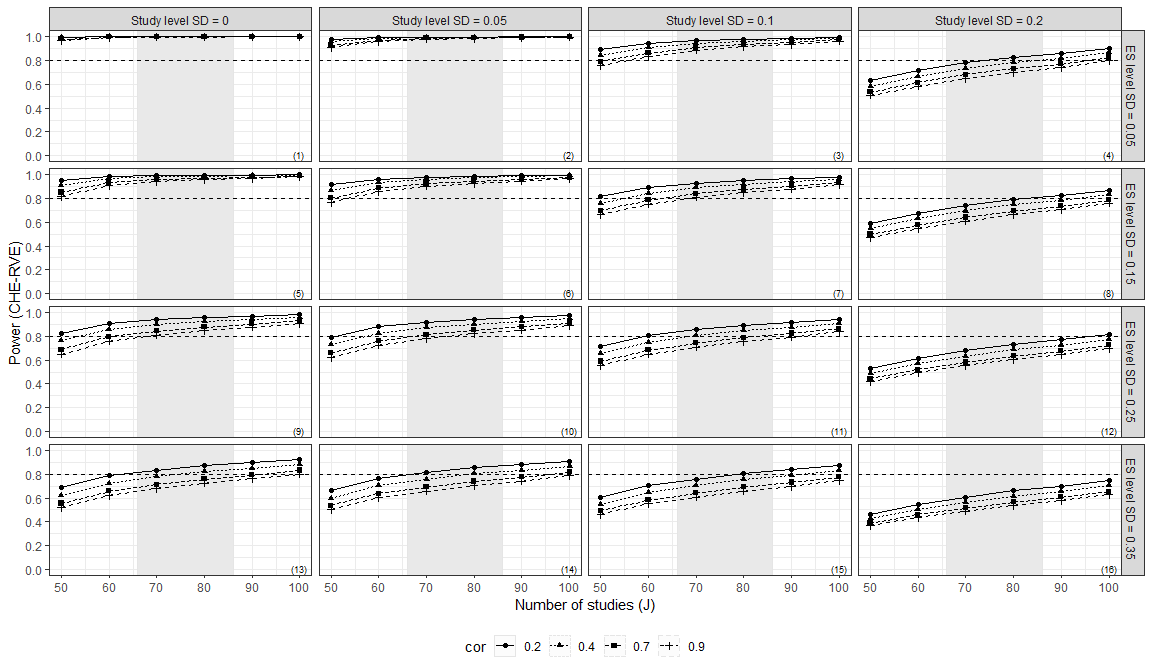
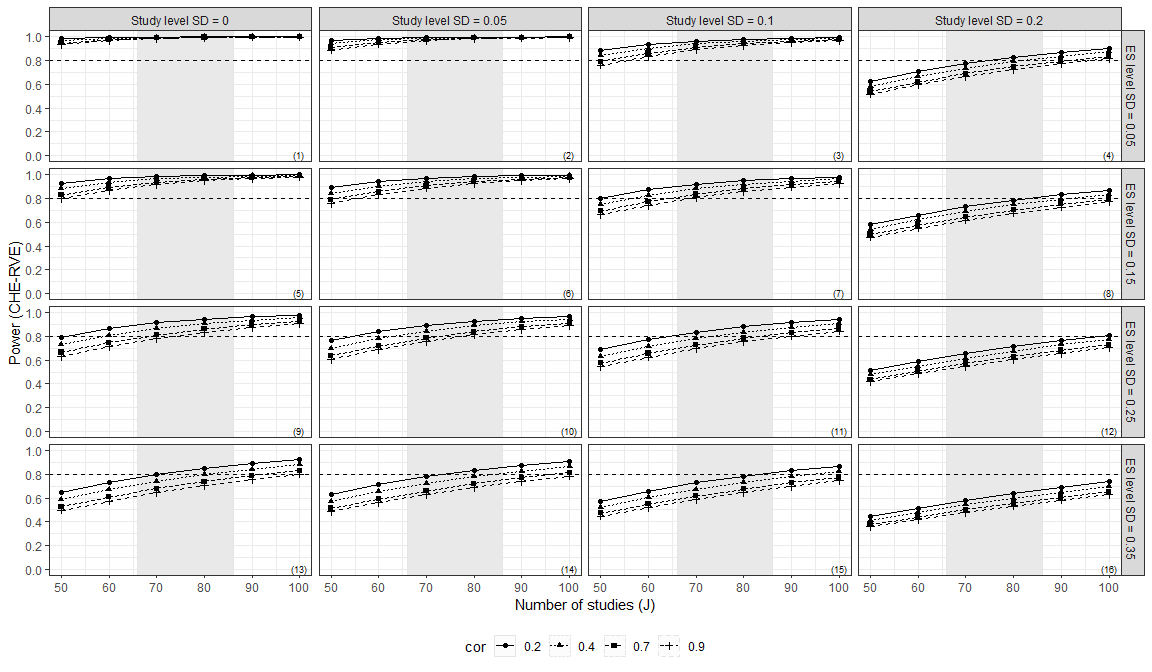
100 iteration for examples

diff --git a/README.md b/README.md
@@ -28,7 +28,7 @@ You can install the development version from
 devtools::install_github("MikkelVembye/POMADE")
 ```
 
-## Example (Hej Simon)
+## Example
 
 Example of how to approximate power for the CHE-RVE model (Pustejovsky &
 Tipton, 2021)
@@ -79,7 +79,7 @@ power_CHE_RVE_plot <-
     var_df = "RVE", # Default
     pilot_data_kjsigma2 = dat_kjsigma2j,
     expected_studies = c(66, 86),
-    iterations = 1, # Default
+    iterations = 100, # Default
     seed = 10052510
     
   )
@@ -105,7 +105,7 @@ power_CHE_RVE_color_plot <-
     expected_studies = c(66, 86),
     color = TRUE,
     color_brewer = TRUE,
-    iterations = 1, # Default
+    iterations = 100, # Default
     seed = 10052510
   )
 
